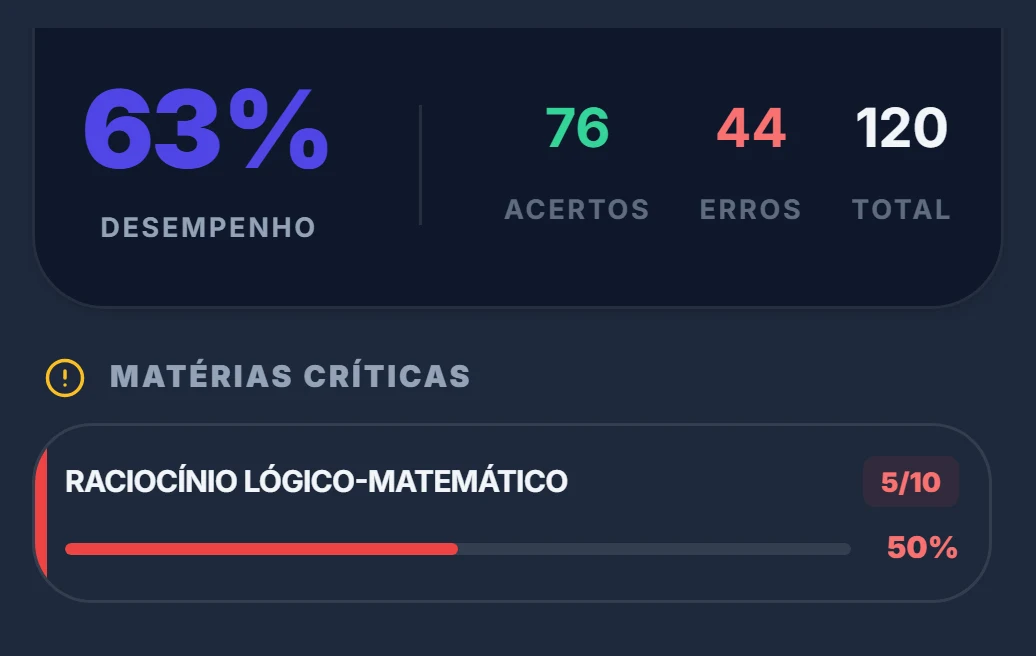
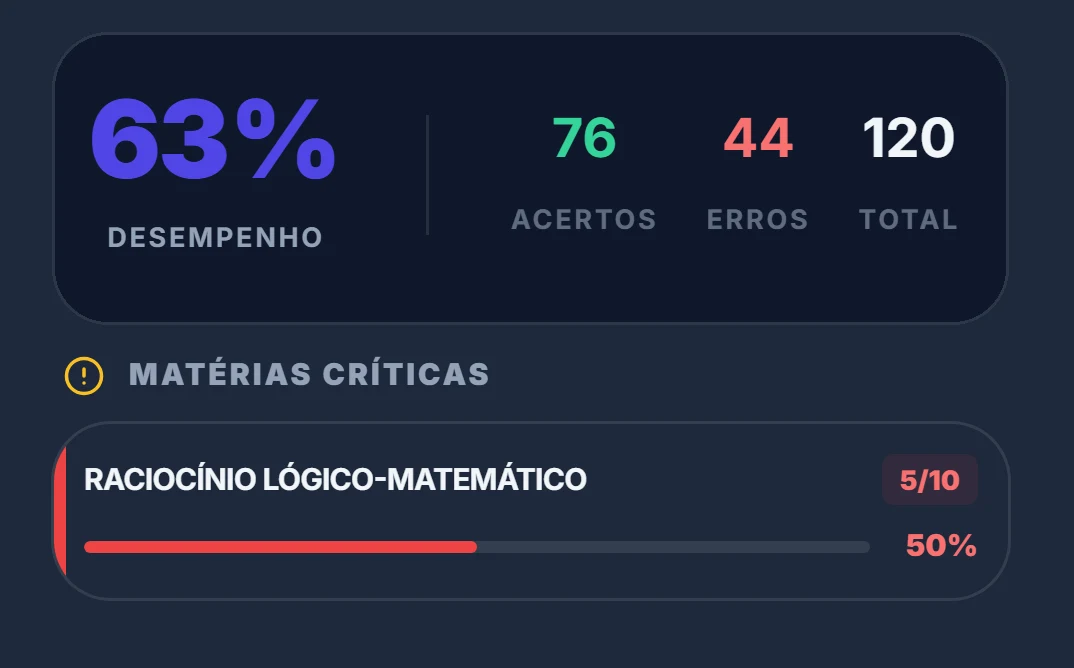
fix(landing): achados da banca de UI no posicionamento novo
- pré-pintura com a linha 'Funciona com' (o botão pulava 63px no celular, agora 2)
- hero em 1.15fr/1fr no desktop e título equilibrado: 3 linhas, botão acima da dobra em 1366
- recorte do simulado sem bordas cortadas; card mais leve no desktop
- textos: H2 de Depois de estudar, card de questões, item da oferta, FAQ sem abertura de chatbot, fecho da Dor de volta

diff --git a/src/components/DepoisDeEstudar.jsx b/src/components/DepoisDeEstudar.jsx
@@ -6,8 +6,8 @@ export function DepoisDeEstudar() {
         <section ref={sectionRef} className="border-y border-white/5 bg-surface-900 py-16 md:py-24">
             <div className="container mx-auto max-w-6xl px-4 sm:px-6 lg:px-8">
                 <p className="text-micro font-bold uppercase tracking-[0.14em] text-accent-300">Depois de estudar</p>
-                <h2 className="mt-3 max-w-3xl text-display-md font-extrabold leading-tight tracking-tight text-white sm:text-display-lg">
-                    O que você estudou volta no dia certo, vira treino e mostra onde você perde ponto.
+                <h2 className="mt-3 max-w-3xl text-balance text-display-md font-extrabold leading-tight tracking-tight text-white sm:text-display-lg">
+                    Revise no dia certo, treine e veja onde perde ponto.
                 </h2>
                 <div className="mt-10 grid gap-6 md:grid-cols-2">
                     <article className="rounded-2xl border border-white/10 bg-surface-800/60 p-5">
@@ -26,7 +26,7 @@ export function DepoisDeEstudar() {
                         />
                     </article>
                     <article className="rounded-2xl border border-white/10 bg-surface-800/60 p-5">
-                        <h3 className="text-h3 font-bold text-white">Treine com o seu próprio material</h3>
+                        <h3 className="text-h3 font-bold text-white">Questões tiradas da sua apostila</h3>
                         <p className="mt-2 text-body leading-relaxed text-white/55">
                             Mande o PDF da sua apostila e treine com questões de múltipla escolha tiradas dele, com
                             gabarito e explicação.
@@ -41,21 +41,21 @@ export function DepoisDeEstudar() {
                             className="mt-5 w-full rounded-2xl border border-white/15"
                         />
                     </article>
-                    <article className="grid items-center gap-5 rounded-2xl border border-white/10 bg-surface-800/60 p-5 md:col-span-2 md:grid-cols-2 md:gap-8">
+                    <article className="grid items-center gap-5 rounded-2xl border border-white/10 bg-surface-800/60 p-5 md:col-span-2 md:grid-cols-[1fr_1.1fr] md:gap-8">
                         <div>
                             <h3 className="text-h3 font-bold text-white">Registre os simulados que você faz</h3>
                             <p className="mt-2 text-body leading-relaxed text-white/55">
-                                Fez um simulado? Lance os acertos de cada matéria e veja onde você está perdendo ponto.
+                                Fez um simulado? Lance os acertos de cada matéria e veja qual está puxando sua nota para baixo.
                             </p>
                         </div>
                         <img
                             src="/screenshots/simulado-materias-criticas.webp"
-                            width="1036"
-                            height="656"
+                            width="1074"
+                            height="668"
                             loading="lazy"
                             decoding="async"
                             alt="Tela real: análise de um simulado com 63% de desempenho e Raciocínio Lógico-Matemático como matéria crítica, 5 de 10"
-                            className="w-full rounded-2xl border border-white/15"
+                            className="w-full rounded-2xl border border-white/15 md:max-w-[460px] md:justify-self-end"
                         />
                     </article>
                 </div>

diff --git a/index.html b/index.html
@@ -159,6 +159,9 @@
                            largura cheia no topo 521, tudo centralizado
          desktop 1440px -> nav 65px, DUAS colunas (texto à esquerda, print à
                            direita), h1 64/67.2/-2.56 no topo 203
+       Remedido em 10/11/2026 (título "Faça o material...", linha "Funciona com"):
+         390px -> h1 no topo 139 (3 linhas), CTA no topo 464 (React 466)
+         1440px -> h1 no topo 199 (3 linhas, colunas 1.15fr/1fr), CTA 586 (React 594)
        Mexeu no Hero.jsx? Remeça e ajuste aqui, senão o "pisque" volta. -->
   <link rel="preload" as="image" href="/LogoRendiPro-v05-2026-sem-fundo.webp" fetchpriority="high" />
   <style>
@@ -175,11 +178,13 @@
     #rp-prepaint .wrap{padding:28px 16px 64px;max-width:1280px;margin:0 auto}
     #rp-prepaint .col{text-align:left}
     #rp-prepaint .tarja{display:inline-flex;align-items:center;gap:8px;height:34px;padding:0 16px;border-radius:999px;border:1px solid rgba(0,196,154,.3);background:rgba(0,196,154,.1);color:#6ceac6;font-size:14px;font-weight:600}
-    #rp-prepaint h1{margin:20px 0 0;font-size:33px;line-height:35.64px;letter-spacing:-.825px;font-weight:800}
+    #rp-prepaint h1{text-wrap:balance;margin:20px 0 0;font-size:33px;line-height:35.64px;letter-spacing:-.825px;font-weight:800}
     #rp-prepaint h1 em{font-style:normal;color:#33d9ab}
     #rp-prepaint h1 span{color:rgba(255,255,255,.85)}
     #rp-prepaint p{margin:16px 0 0;max-width:672px;font-size:18px;line-height:29.25px;color:rgba(255,255,255,.7)}
     #rp-prepaint p b{color:#fff;font-weight:600}
+    #rp-prepaint p.fx{text-wrap:balance;margin-top:16px;font-size:14px;line-height:22.75px;color:rgba(255,255,255,.6)}
+    #rp-prepaint p.fx b{color:rgba(255,255,255,.8);font-weight:600}
     #rp-prepaint .so-cel{display:inline}
     #rp-prepaint .so-desk{display:none}
     #rp-prepaint .ctas{margin-top:24px;display:flex;flex-direction:column;gap:16px}
@@ -201,6 +206,7 @@
       /* 167px = altura exata do paragrafo do hero real no desktop. Sem isto o
          texto quebra em uma linha a menos aqui e o botao sobe 27px na troca. */
       #rp-prepaint p{margin-left:0;font-size:20px;line-height:32.5px}
+      #rp-prepaint p.fx{font-size:14px;line-height:22.75px}
       #rp-prepaint .ctas{flex-direction:row;align-items:center;margin-top:40px}
       #rp-prepaint .cta{padding:0 40px}
       #rp-prepaint .cta2{display:flex;height:56px;align-items:center;justify-content:center;padding:0 32px;border-radius:999px;border:1px solid rgba(255,255,255,.15);color:#fff;font-weight:600;font-size:18px;text-decoration:none}
@@ -232,8 +238,9 @@
         <span class="tarja">Para concurso · mais de 250 editais prontos</span>
         <h1>Faça o material que você já tem <em>render até a prova.</em></h1>
         <p>
-          Todo dia você abre e já sabe o que estudar, por quanto tempo e o que revisar. O RendiPro monta o plano do seu edital até a data da prova.
+          Todo dia você abre e já sabe o que estudar, por quanto tempo e o que revisar. O RendiPro monta o plano do seu edital, dividido em dias.
         </p>
+        <p class="fx"><b>Funciona com o que você já usa:</b> cursinho, apostila, videoaula, site de questões ou PDF.</p>
         <div class="ctas">
           <a class="cta" href="https://app.rendipro.com.br/register?plano=starter-anual&amp;utm_content=hero-prepaint">Montar meu plano</a>
         </div>

diff --git a/src/components/Hero.jsx b/src/components/Hero.jsx
@@ -12,22 +12,22 @@ export function Hero() {
     return (
         <section ref={sectionRef} className="relative overflow-hidden py-7 md:py-20">
             <div className="pointer-events-none absolute right-0 top-0 -z-10 h-[600px] w-[600px] rounded-full bg-primary-500/10 blur-[140px]" />
-            <div className="container mx-auto grid max-w-6xl items-center gap-10 px-4 sm:px-6 md:grid-cols-2 md:gap-14 lg:px-8">
+            <div className="container mx-auto grid max-w-6xl items-center gap-10 px-4 sm:px-6 md:grid-cols-2 md:gap-14 lg:grid-cols-[1.15fr_1fr] lg:px-8">
                 <div>
                     <p className="inline-flex rounded-full border border-primary-500/30 bg-primary-500/10 px-3.5 py-1.5 text-body-sm font-semibold text-primary-300">
                         Para concurso · mais de 250 editais prontos
                     </p>
-                    <h1 className="mt-5 text-[33px] font-extrabold leading-[1.08] tracking-tight text-white md:text-[60px]">
+                    <h1 className="mt-5 text-balance text-[33px] font-extrabold leading-[1.08] tracking-tight text-white md:text-[60px]">
                         Faça o material que você já tem{' '}
                         <span className="text-primary-400">render até a prova.</span>
                     </h1>
                     <p className="mt-4 text-body-lg leading-relaxed text-white/70 md:text-[20px]">
                         Todo dia você abre e já sabe o que estudar, por quanto tempo e o que revisar. O RendiPro monta o
-                        plano do seu edital até a data da prova.
+                        plano do seu edital, dividido em dias.
                     </p>
-                    <p className="mt-4 text-body-sm leading-relaxed text-white/60">
-                        <span className="font-semibold text-white/80">Funciona com o que você já usa:</span> cursinho ·
-                        apostila · videoaula · questões · PDF
+                    <p className="mt-4 text-balance text-body-sm leading-relaxed text-white/60">
+                        <span className="font-semibold text-white/80">Funciona com o que você já usa:</span> cursinho,
+                        apostila, videoaula, site de questões ou PDF.
                     </p>
                     <a
                         href={getCheckoutUrl(

diff --git a/src/data/faq-data.js b/src/data/faq-data.js
@@ -7,7 +7,7 @@ const primeiroMesGratis = {
 }
 
 export const faqItems = [
-    { question: 'Preciso ter material para usar?', answer: 'Sim, e é essa a ideia: o RendiPro faz render o que você já tem. Cursinho, apostila, videoaula gratuita, site de questões, PDF: tudo vale. Ele organiza o que estudar hoje, por quanto tempo e quando revisar. Se você ainda não escolheu um material, comece por ele, e o RendiPro organiza a partir daí.' },
+    { question: 'Preciso ter material para usar?', answer: 'Sim. O RendiPro organiza o estudo com o que você já usa: cursinho, apostila, videoaula gratuita, site de questões ou PDF. Ele mostra o que estudar hoje, por quanto tempo e quando revisar. Ainda não tem material? Escolha um primeiro, até um gratuito serve, e monte o plano depois.' },
     ...(CAMPANHA_ANUAL_ATIVA ? [primeiroMesGratis] : []),
     // Oferta nova (09/11/2026): sem o mês grátis, o cartão cobra no dia da compra,
     // então "nada é cobrado nesse prazo" deixou de ser verdade.

diff --git a/src/components/Pricing.jsx b/src/components/Pricing.jsx
@@ -5,7 +5,7 @@ import { useSectionView } from '../lib/useSectionView'
 import { obterOfertaLanding, SUPORTE_NO_APP_ATIVO } from '../data/oferta-landing'
 
 const itens = [
-    'Funciona com o material que você já usa: nada para trocar, nada a mais para assistir.',
+    'Funciona com o material que você já usa: você não troca de cursinho nem paga outro.',
     'O plano do seu edital, pelo catálogo ou pelo PDF do seu, dividido em dias até a prova.',
     'A sessão de cada dia: matéria, tópico e tempo.',
     'Revisão no dia certo de cada tópico que você estuda.',

diff --git a/src/components/Dor.jsx b/src/components/Dor.jsx
@@ -26,7 +26,7 @@ export function Dor() {
                 </div>
                 <p className="mt-8 text-body-lg text-white/75">
                     O RendiPro resolve essas quatro coisas.{' '}
-                    <strong className="text-white">O estudo continua sendo seu, com o material que você já tem.</strong>
+                    <strong className="text-white">O estudo continua sendo seu.</strong>
                 </p>
             </div>
         </section>
